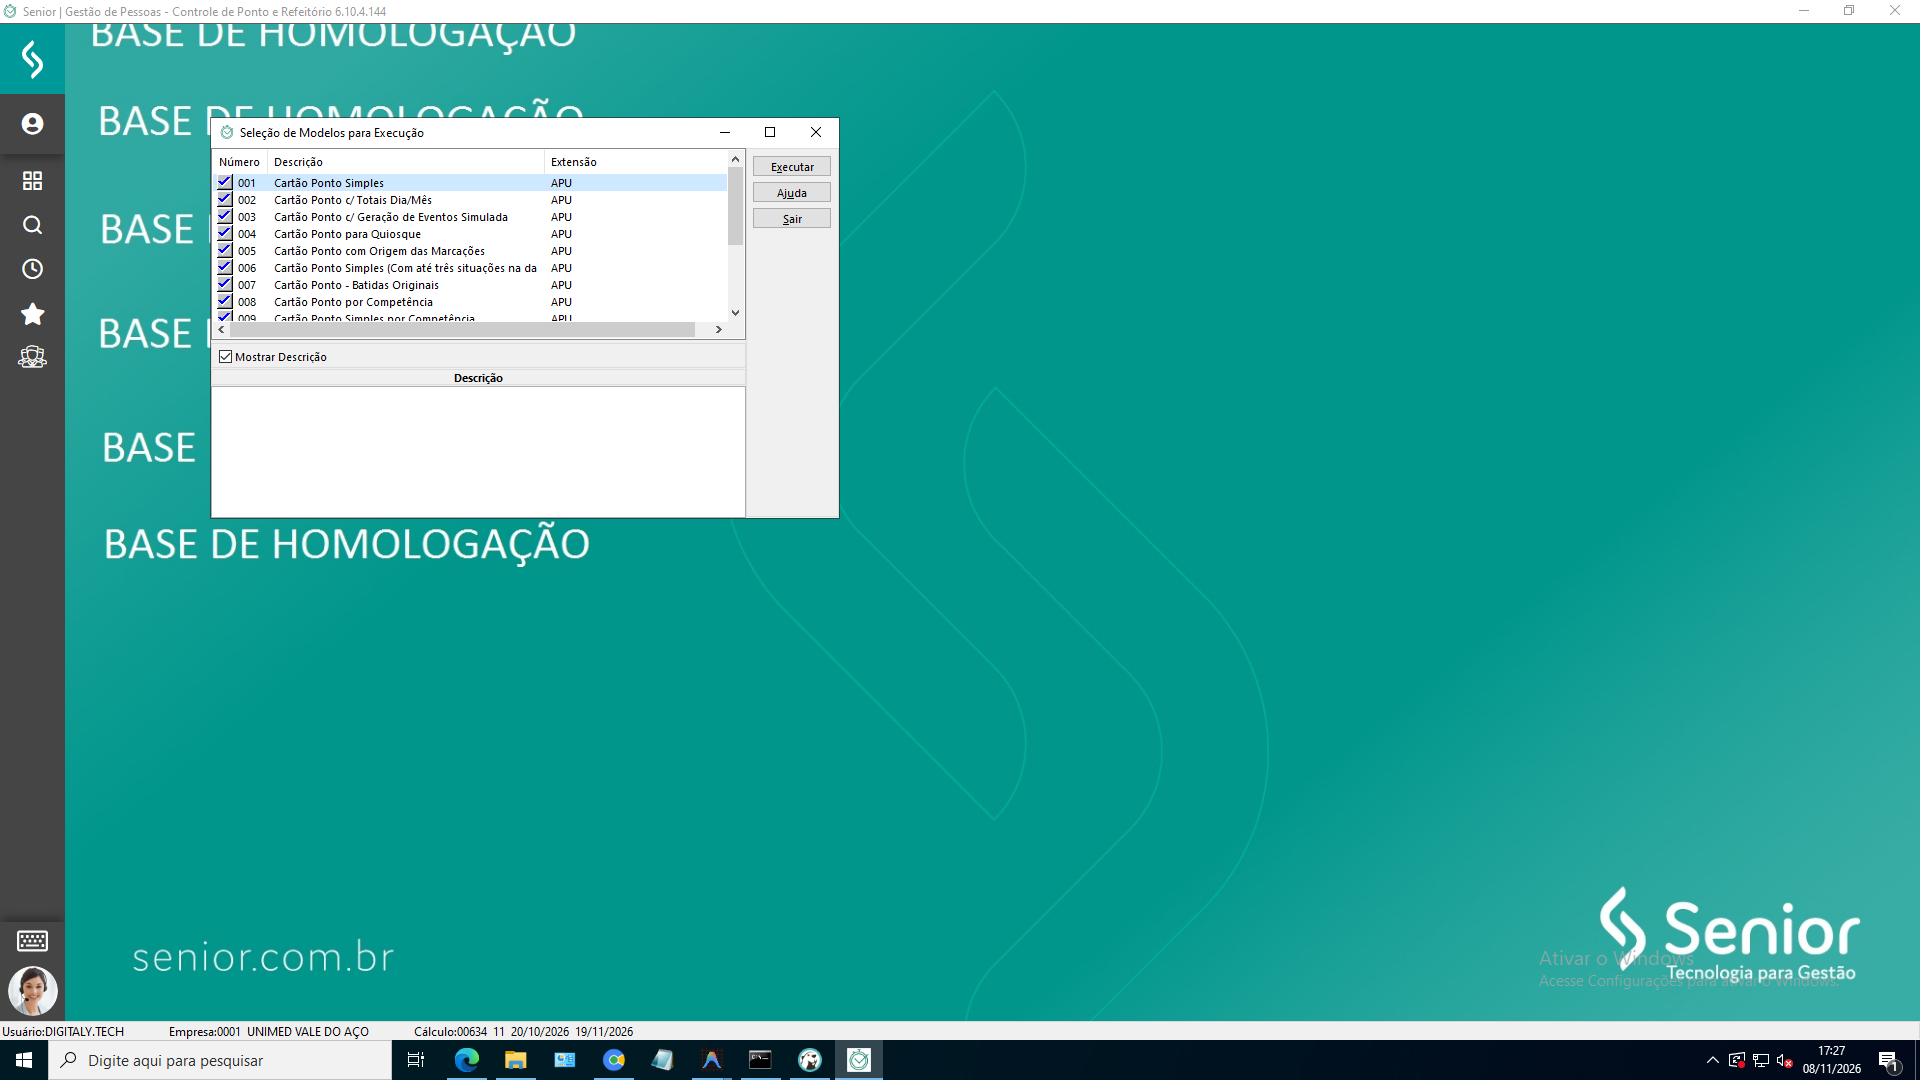
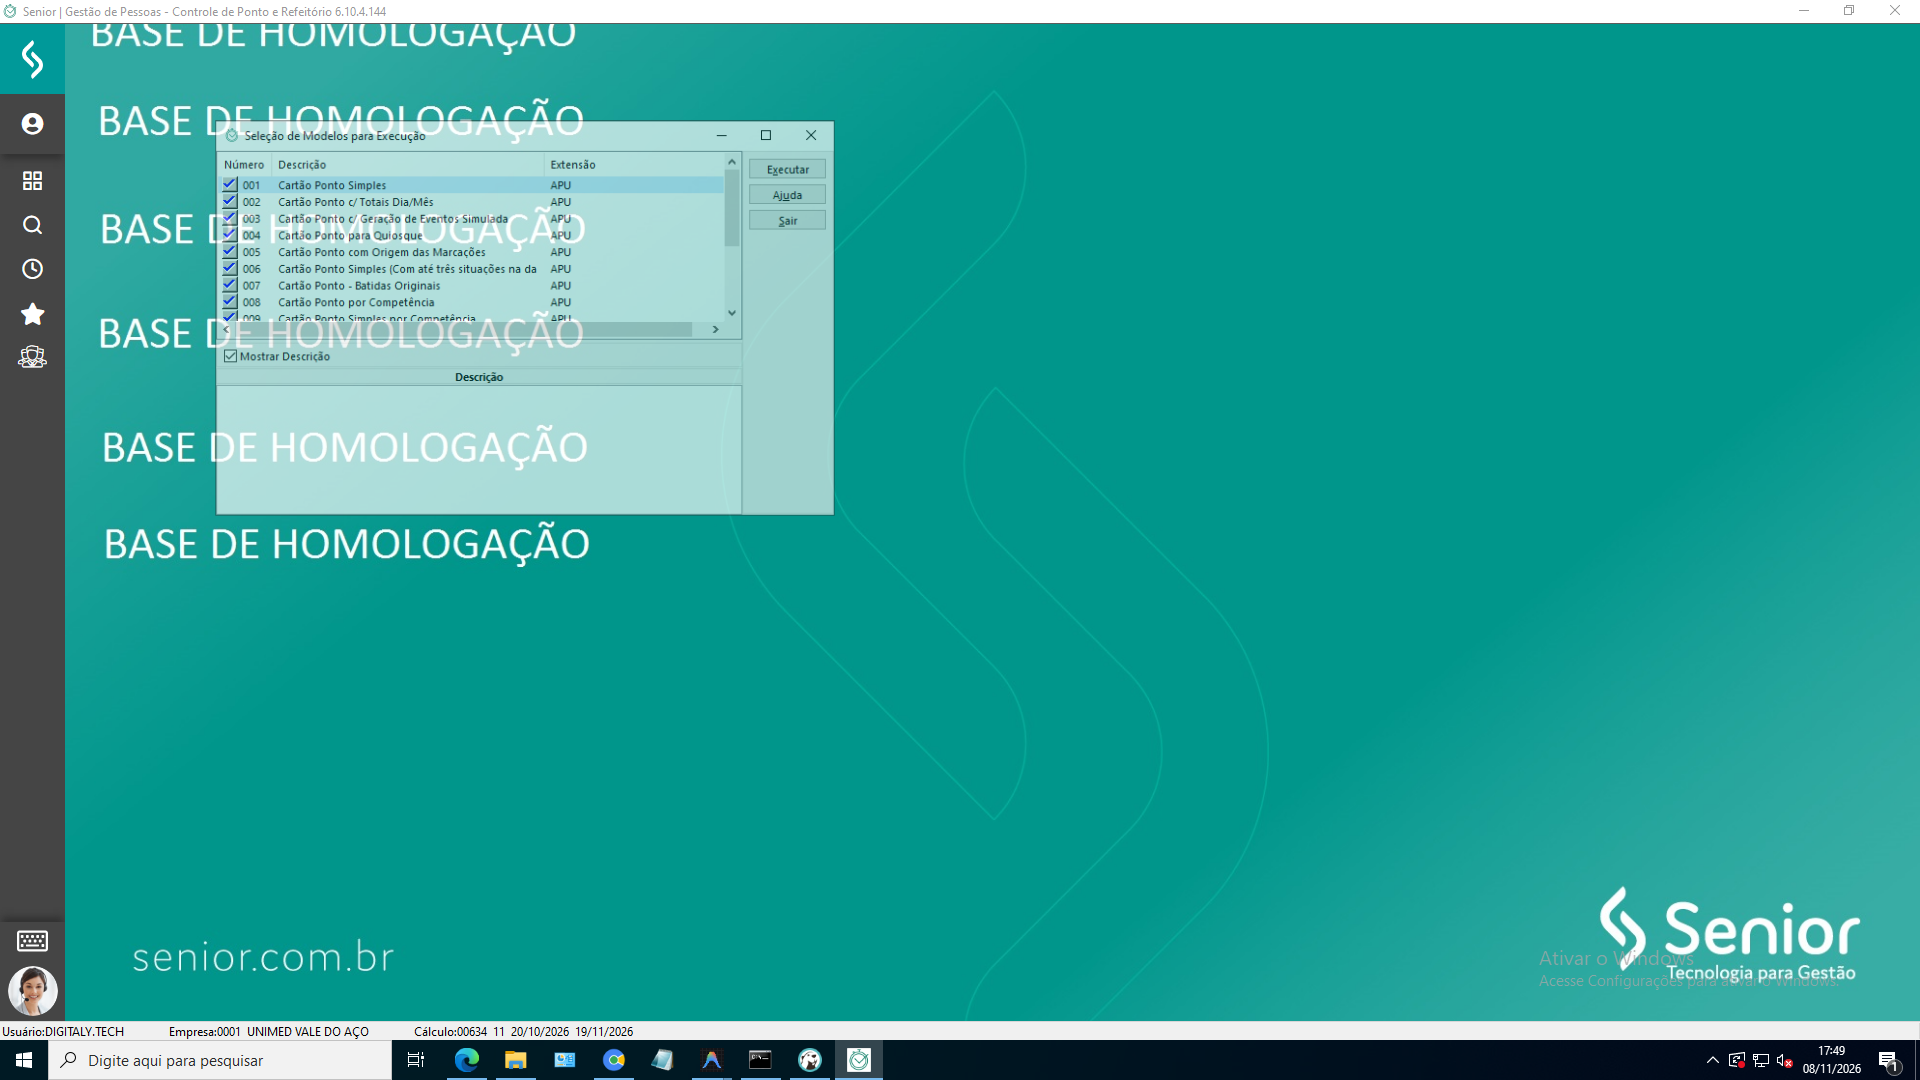
fix(senior): rolagem estrita unidirecional e casamento com template oficial 702 sem fallback cego

Changed region(s): [[0.0938, 0.0917, 0.4375, 0.4889]]

diff --git a/services/senior_service.py b/services/senior_service.py
@@ -306,8 +306,8 @@ class SeniorService:
         """
         PASSO 5:
         1. Aguardar a janela 'Seleção de Modelos para Execução';
-        2. Rolar a grade até o final para exibir a opção 702;
-        3. Clicar especificamente no NOME 'UnimedVA - Cartão Ponto Portal';
+        2. Rolar a grade até encontrar estritamente o modelo 702 ('UnimedVA - Cartão Ponto Portal');
+        3. Clicar no NOME da opção 702 com alta precisão visual (sem falsos positivos);
         4. Clicar no botão 'Executar'.
         """
         logger.info("Iniciando Passo 5: Seleção de Modelos para Execução (Código 702)...")
@@ -315,8 +315,8 @@ class SeniorService:
         # 1. Aguarda a janela abrir (identificada pelo botão Executar ou pelo Título)
         tpl_titulo = self._obter_template("titulo_selecao_modelos.png")
         tpl_exec = self._obter_template("botao_executar.png")
-        tpl_nome = self._obter_template("nome_opcao_702.png")
-        tpl_texto_alt = self._obter_template("texto_cartao_ponto_portal.png")
+        tpl_702_oficial = self._obter_template("opcao_702_oficial.png")
+        tpl_nome_oficial = self._obter_template("nome_702_oficial.png")
 
         pos_exec = None
         if tpl_exec:
@@ -336,99 +336,75 @@ class SeniorService:
 
         logger.info(f"Janela de Modelos aberta! Botão Executar em: {pos_exec}")
 
-        # Coordenadas calibradas da barra de rolagem e do nome
-        # Offset medido em 1080p: dx = -57, dy_seta = +156
-        x_barra = pos_exec[0] - 57
-        y_barra_slider = pos_exec[1] + 10
-        y_barra_trilho = pos_exec[1] + 120
+        # Coordenadas da seta para baixo da barra de rolagem (SÓ DESCE, NUNCA SOBE)
+        x_seta_baixo = pos_exec[0] - 57
         y_seta_baixo = pos_exec[1] + 156
 
-        # Coordenadas calibradas da linha 702:
-        # dx_nome = -419 (centro de 'UnimedVA - Cartão Ponto Portal')
-        # dy_nome = +138 (última linha da grade)
-        x_coluna_nome = pos_exec[0] - 419
-        y_linha_702 = pos_exec[1] + 138
+        # Centro da grade para focar
+        x_grade = pos_exec[0] - 350
+        y_grade = pos_exec[1] + 60
 
-        # 2. Desce a lista obrigatoriamente até o final onde o modelo 702 se encontra
-        logger.info("Descendo a barra de rolagem da grade até o final para exibir a opção 702...")
-
-        # A) Clica no meio da grade para focar e envia PageDowns
-        try:
-            gui.click(x_coluna_nome, pos_exec[1] + 50)
-            time.sleep(0.2)
-            for _ in range(6):
-                gui.press("pagedown")
-                time.sleep(0.12)
-        except Exception as e:
-            logger.debug(f"Aviso ao enviar teclas de rolagem: {e}")
-
-        # B) Arrasta o slider da barra de rolagem para o final
-        try:
-            gui.move_to(x_barra, y_barra_slider, duration=0.15)
-            gui.drag_to(x_barra, y_barra_trilho, duration=0.5)
-            time.sleep(0.3)
-        except Exception as e:
-            logger.debug(f"Aviso ao arrastar barra de rolagem: {e}")
-
-        # C) Clica repetidamente na seta para baixo da barra de rolagem para garantir o fim absoluto
-        for _ in range(12):
-            gui.click(x_barra, y_seta_baixo)
-            time.sleep(0.08)
-
-        # Aguarda a renderização gráfica do Delphi estabilizar após a rolagem
-        time.sleep(0.8)
-
-        # 3. Localiza com alta precisão o NOME 'UnimedVA - Cartão Ponto Portal'
-        logger.info("Localizando o NOME da opção 702 ('UnimedVA - Cartão Ponto Portal')...")
-        pos_nome_702 = None
-        for tentativa in range(10):
-            for tpl in [tpl_nome, tpl_texto_alt]:
+        def _buscar_702_estrito():
+            """Busca estritamente o template oficial com alta confiança (sem sensibilidade / sem falsos positivos)."""
+            for tpl in [tpl_702_oficial, tpl_nome_oficial]:
                 if not tpl:
                     continue
-                for conf in [0.85, 0.78, 0.70]:
+                # Confiança alta: no topo da tela dá ~0.44, na opção 702 dá ~0.95
+                for conf in [0.88, 0.82]:
                     p = gui.locate_center_on_screen(str(tpl), confidence=conf)
                     if p:
-                        pos_nome_702 = p
-                        logger.info(f"NOME da opção 702 encontrado por visão computacional em {pos_nome_702} (confiança={conf})!")
-                        break
-                if pos_nome_702:
+                        return p, tpl
+            return None, None
+
+        # 2. Foca na grade de modelos com 1 clique inicial
+        gui.click(x_grade, y_grade)
+        time.sleep(0.3)
+
+        # 3. Loop de rolagem unidirecional: rola para baixo até o 702 aparecer
+        pos_702 = None
+        qual_tpl = None
+
+        logger.info("Verificando se opção 702 já está visível ou descendo a grade...")
+        # Checagem inicial
+        pos_702, qual_tpl = _buscar_702_estrito()
+
+        if not pos_702:
+            # Desce com passos rápidos na seta inferior e no scroll, verificando a cada etapa
+            for ciclo in range(20):
+                # Clica 3 vezes na seta para baixo da barra de rolagem (garante descida unidirecional)
+                for _ in range(3):
+                    gui.click(x_seta_baixo, y_seta_baixo)
+                    time.sleep(0.04)
+
+                time.sleep(0.15)
+                pos_702, qual_tpl = _buscar_702_estrito()
+                if pos_702:
+                    logger.info(f"Opção 702 localizada com sucesso no ciclo de rolagem {ciclo + 1} em {pos_702}!")
                     break
-            if pos_nome_702:
-                break
-            time.sleep(0.3)
 
-        # 4. Fallback de coordenadas geométricas (dy = +138 da última linha):
-        if not pos_nome_702:
-            logger.warning(f"Nome 702 não detectado por visão exata. Clicando na última linha calibrada ({x_coluna_nome}, {y_linha_702})...")
-            pos_nome_702 = (x_coluna_nome, y_linha_702)
+        if not pos_702:
+            logger.warning("Opção 702 ('UnimedVA - Cartão Ponto Portal') NÃO encontrada após rolagem completa.")
+            return False
 
-        # 5. Clica com precisão no NOME da opção 702 para selecioná-la
-        logger.info(f"Clicando no NOME da opção 702 ('UnimedVA - Cartão Ponto Portal') em {pos_nome_702}...")
-        gui.click(pos_nome_702[0], pos_nome_702[1])
-        time.sleep(0.4)
-        gui.click(pos_nome_702[0], pos_nome_702[1])
+        # 4. Calcula o ponto exato do clique no NOME 'UnimedVA - Cartão Ponto Portal'
+        # Se achou pelo template completo (que tem o '702' à esquerda), desloca +35px para clicar no nome
+        if qual_tpl and "opcao_702_oficial" in str(qual_tpl):
+            x_nome = pos_702[0] + 35
+            y_nome = pos_702[1]
+        else:
+            x_nome = pos_702[0]
+            y_nome = pos_702[1]
+
+        logger.info(f"Clicando com precisão no NOME da opção 702 em ({x_nome}, {y_nome})...")
+        gui.click(x_nome, y_nome)
+        time.sleep(0.3)
+        gui.click(x_nome, y_nome)
         time.sleep(0.8)
 
-        # Salva print da opção selecionada para auditoria
-        try:
-            print_702 = self.prints_dir / "05_opcao_702_selecionada.png"
-            gui.screenshot(save_to=str(print_702))
-            logger.info(f"Print pós-seleção do nome do 702 salvo em: {print_702}")
-        except Exception:
-            pass
-
-        # 6. Clica no botão Executar
-        logger.info(f"Opção 702 selecionada com sucesso! Clicando no botão Executar em {pos_exec}...")
+        # 5. Clica no botão Executar
+        logger.info(f"Clicando no botão Executar em {pos_exec}...")
         gui.click(pos_exec[0], pos_exec[1])
         time.sleep(3)
-
-        # Salva print pós-Executar para auditoria do Passo 6
-        try:
-            print_pos_exec = self.prints_dir / "06_tela_parametros_datas.png"
-            gui.screenshot(save_to=str(print_pos_exec))
-            logger.info(f"Print pós-Executar salvo em: {print_pos_exec}")
-        except Exception:
-            pass
 
         logger.info("Passo 5 executado com sucesso!")
         return True
